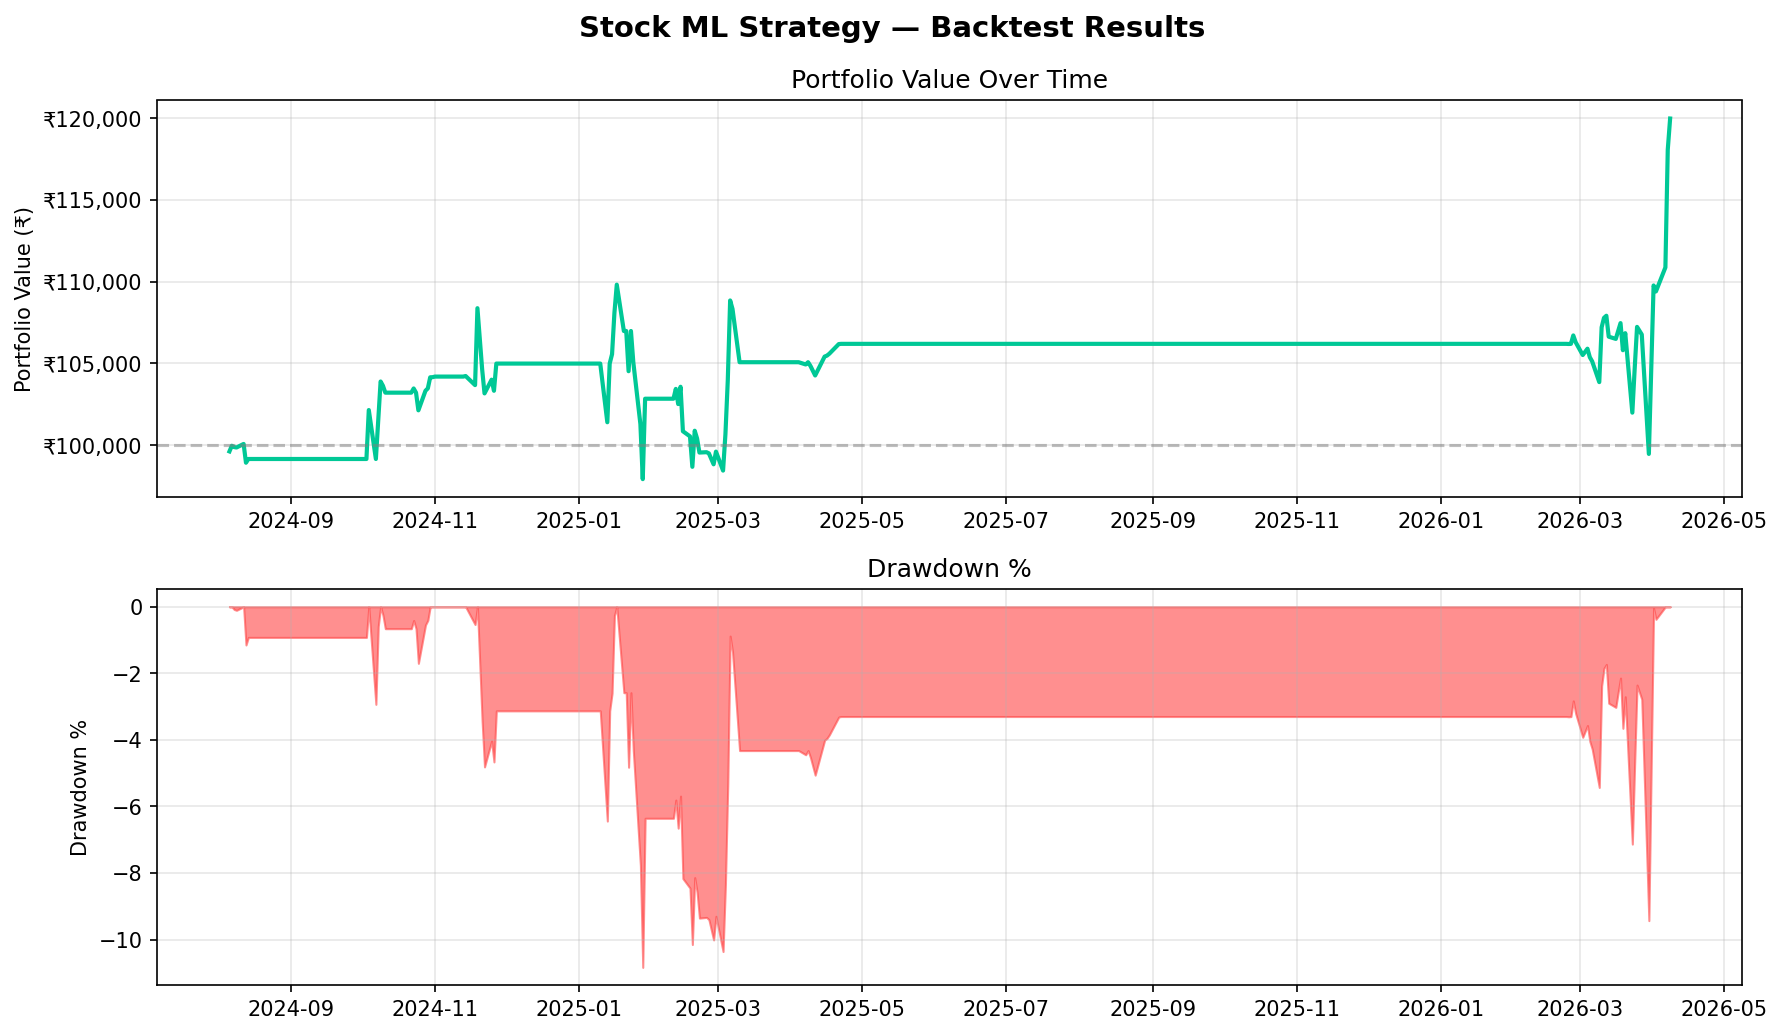
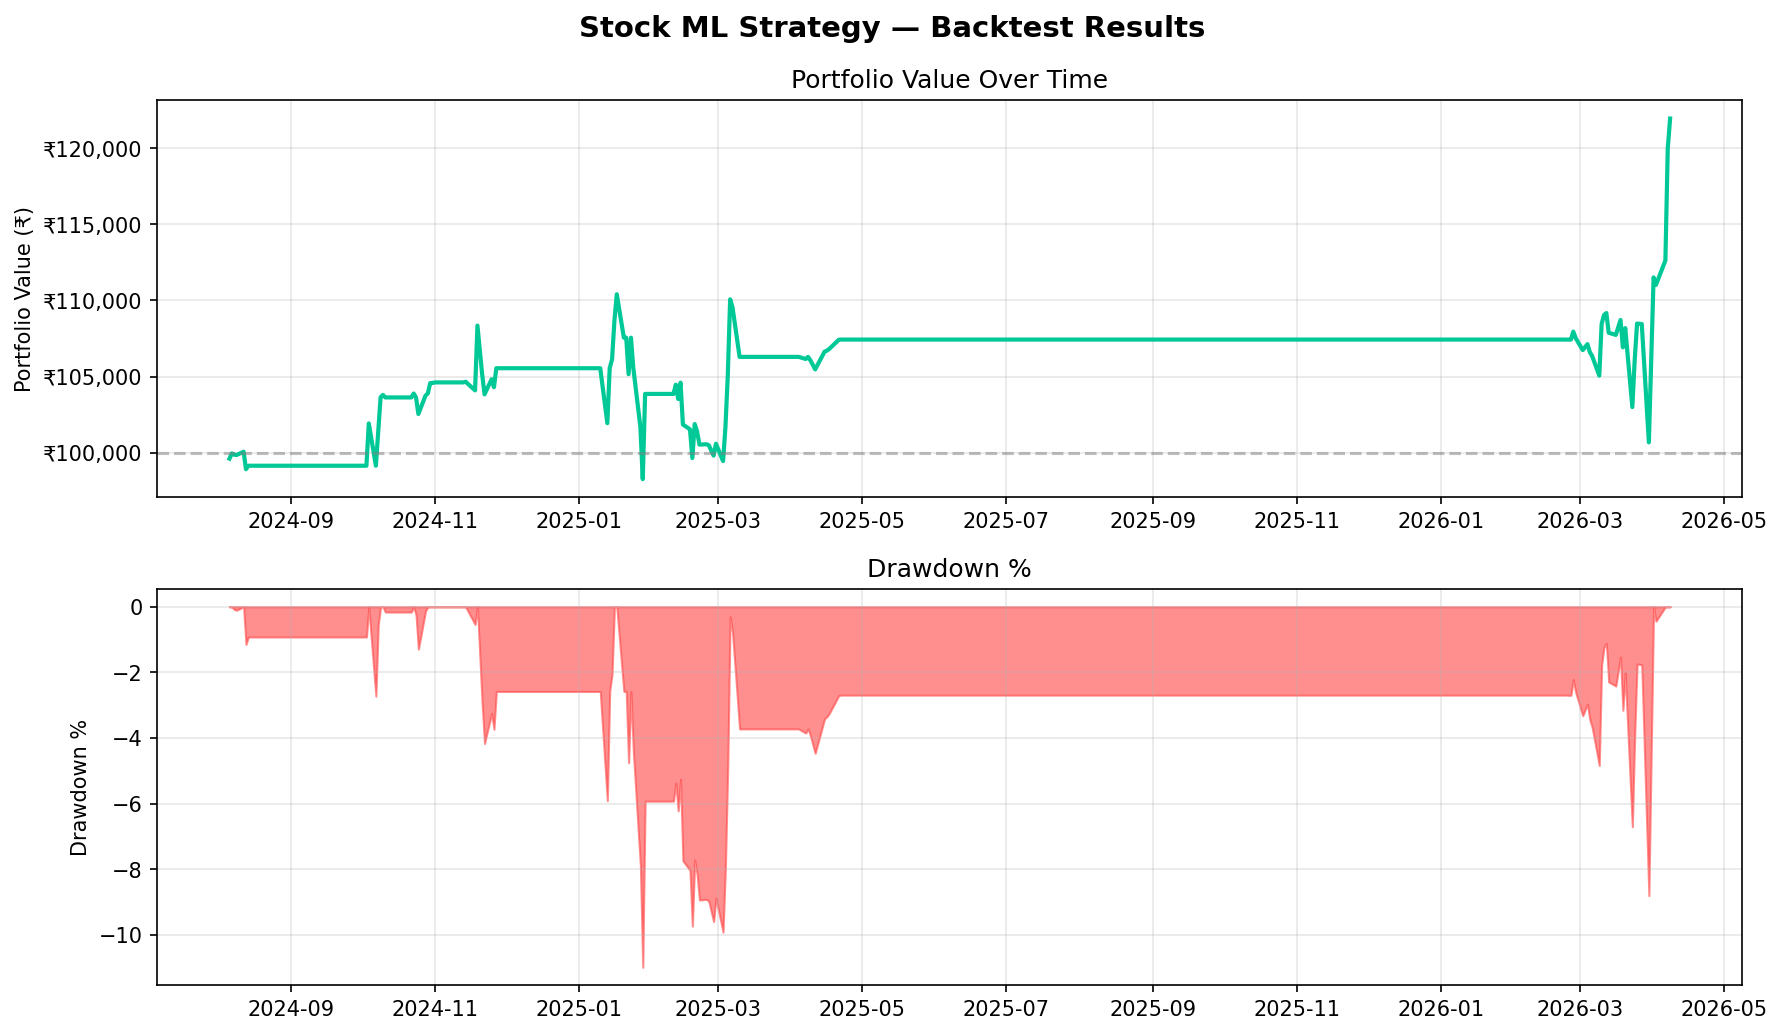
Add confidence-based position sizing

diff --git a/step4_backtest.py b/step4_backtest.py
@@ -194,6 +194,14 @@ def get_price_on_date(price_series, date):
     return float(prior.iloc[-1])
 
 
+def get_position_size(confidence):
+    if confidence >= 0.85:
+        return 0.15
+    if confidence >= 0.80:
+        return 0.125
+    return 0.10
+
+
 def simulate_portfolio(trades_df, prices):
     cash = STARTING_CAPITAL
     locked_cash = 0.0
@@ -236,7 +244,11 @@ def simulate_portfolio(trades_df, prices):
                 available_cash = cash
                 if available_cash <= 0:
                     break
-                locked_amount = min(available_cash, (cash + sum(get_price_on_date(prices[pos['Ticker']], today) * pos['Quantity'] for pos in open_positions)) * POSITION_SIZE)
+                position_size = get_position_size(t['Confidence'])
+                locked_amount = min(
+                    available_cash,
+                    (cash + sum(get_price_on_date(prices[pos['Ticker']], today) * pos['Quantity'] for pos in open_positions)) * position_size
+                )
                 if locked_amount <= 0:
                     break
                 quantity = locked_amount / t['EntryPrice']
@@ -322,7 +334,7 @@ print(f"\n Strategy parameters:")
 print(f"   Confidence thresholds: {', '.join([f'{t:.0%}' for t in CONFIDENCE_THRESHOLDS])}")
 print(f"   Hold period          : {HOLD_DAYS} trading days")
 print(f"   Max positions        : {MAX_POSITIONS}")
-print(f"   Position size        : {POSITION_SIZE*100:.0f}% of portfolio")
+print(f"   Position size        : 10% / 12.5% / 15% by confidence bucket")
 print(f"   Transaction cost     : {TOTAL_COST*100:.2f}% per trade (both sides)")
 print(f"   Starting capital     : ₹{STARTING_CAPITAL:,.0f}")
 
